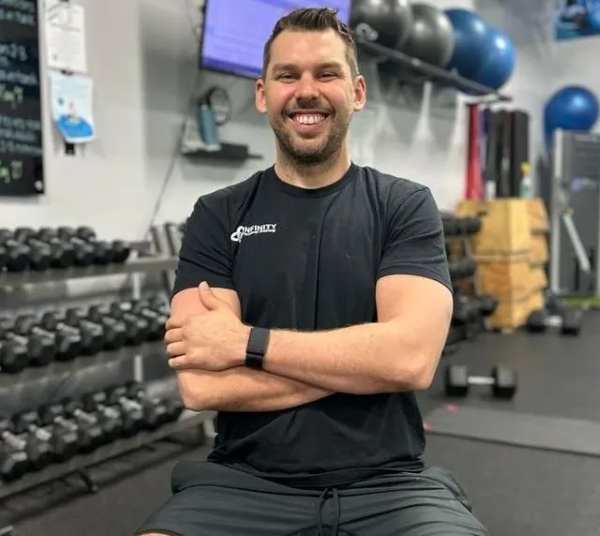
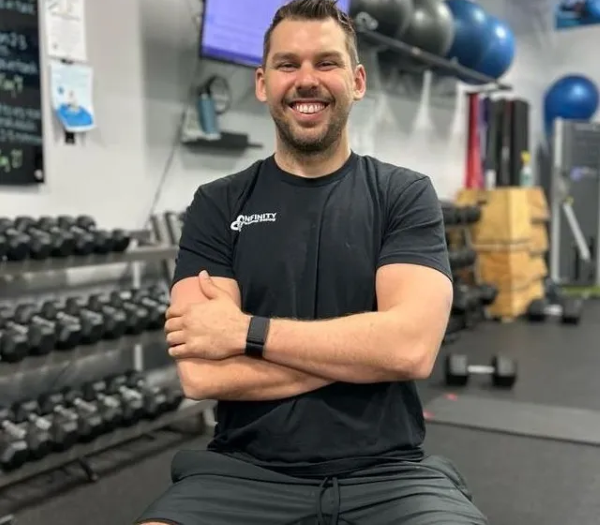
change some style in bmi calculate section

diff --git a/index.html b/index.html
@@ -212,7 +212,7 @@
             <div class="bmi-calculate-section-body">
                 <div class="bmi-calculate-section-inner">
                     <div class="bmi-chart-column">
-                        <h3 class="bmi-chart-title">Calculate Your BMI</h3>
+                        <h3 class="bmi-chart-title">BMI Calculator Chart</h3>
 
                         <table class="chart-table">
                             <thead>
@@ -242,7 +242,7 @@
                         </table>
                     </div>
                     <div class="calculation-column">
-                        <h3 class="bmi-calculation-title">BMI Calculator Chart</h3>
+                        <h3 class="bmi-calculation-title">Calculate Your BMI</h3>
                         <p class="section-description">
                             A BMI Calculator determines body mass index based on weight and height, helping assess
                             health and fitness.
@@ -288,7 +288,7 @@
             </div>
             <div class="our-team-section-inner">
                 <div class="team-card hide">
-                    <img src="images/trainer1.png" alt="">
+                    <img src="images/trainer11.png" alt="">
                     <div class="trainer-details">
                         <h3 class="trainer-name">Jerome Bell</h3>
                         <p class="trainer-title">Trainer</p>

diff --git a/css/style.css b/css/style.css
@@ -570,17 +570,6 @@ form .form-group {
     position: relative;
 }
 
-/* .form-group::after{
-    content: "\f107";
-    font-family: "Font Awesome 6 Free";
-    font-weight: 900;
-    color: rgba(255, 255, 255, 0.6);
-    position: absolute;
-    right: 1.25rem;
-    top: 50%;
-    transform: translateY(-50%);
-    pointer-events: none;
-} */
  .gender-age-form-group::after,
  .activity-form-group::after{
     content: "\f107";
